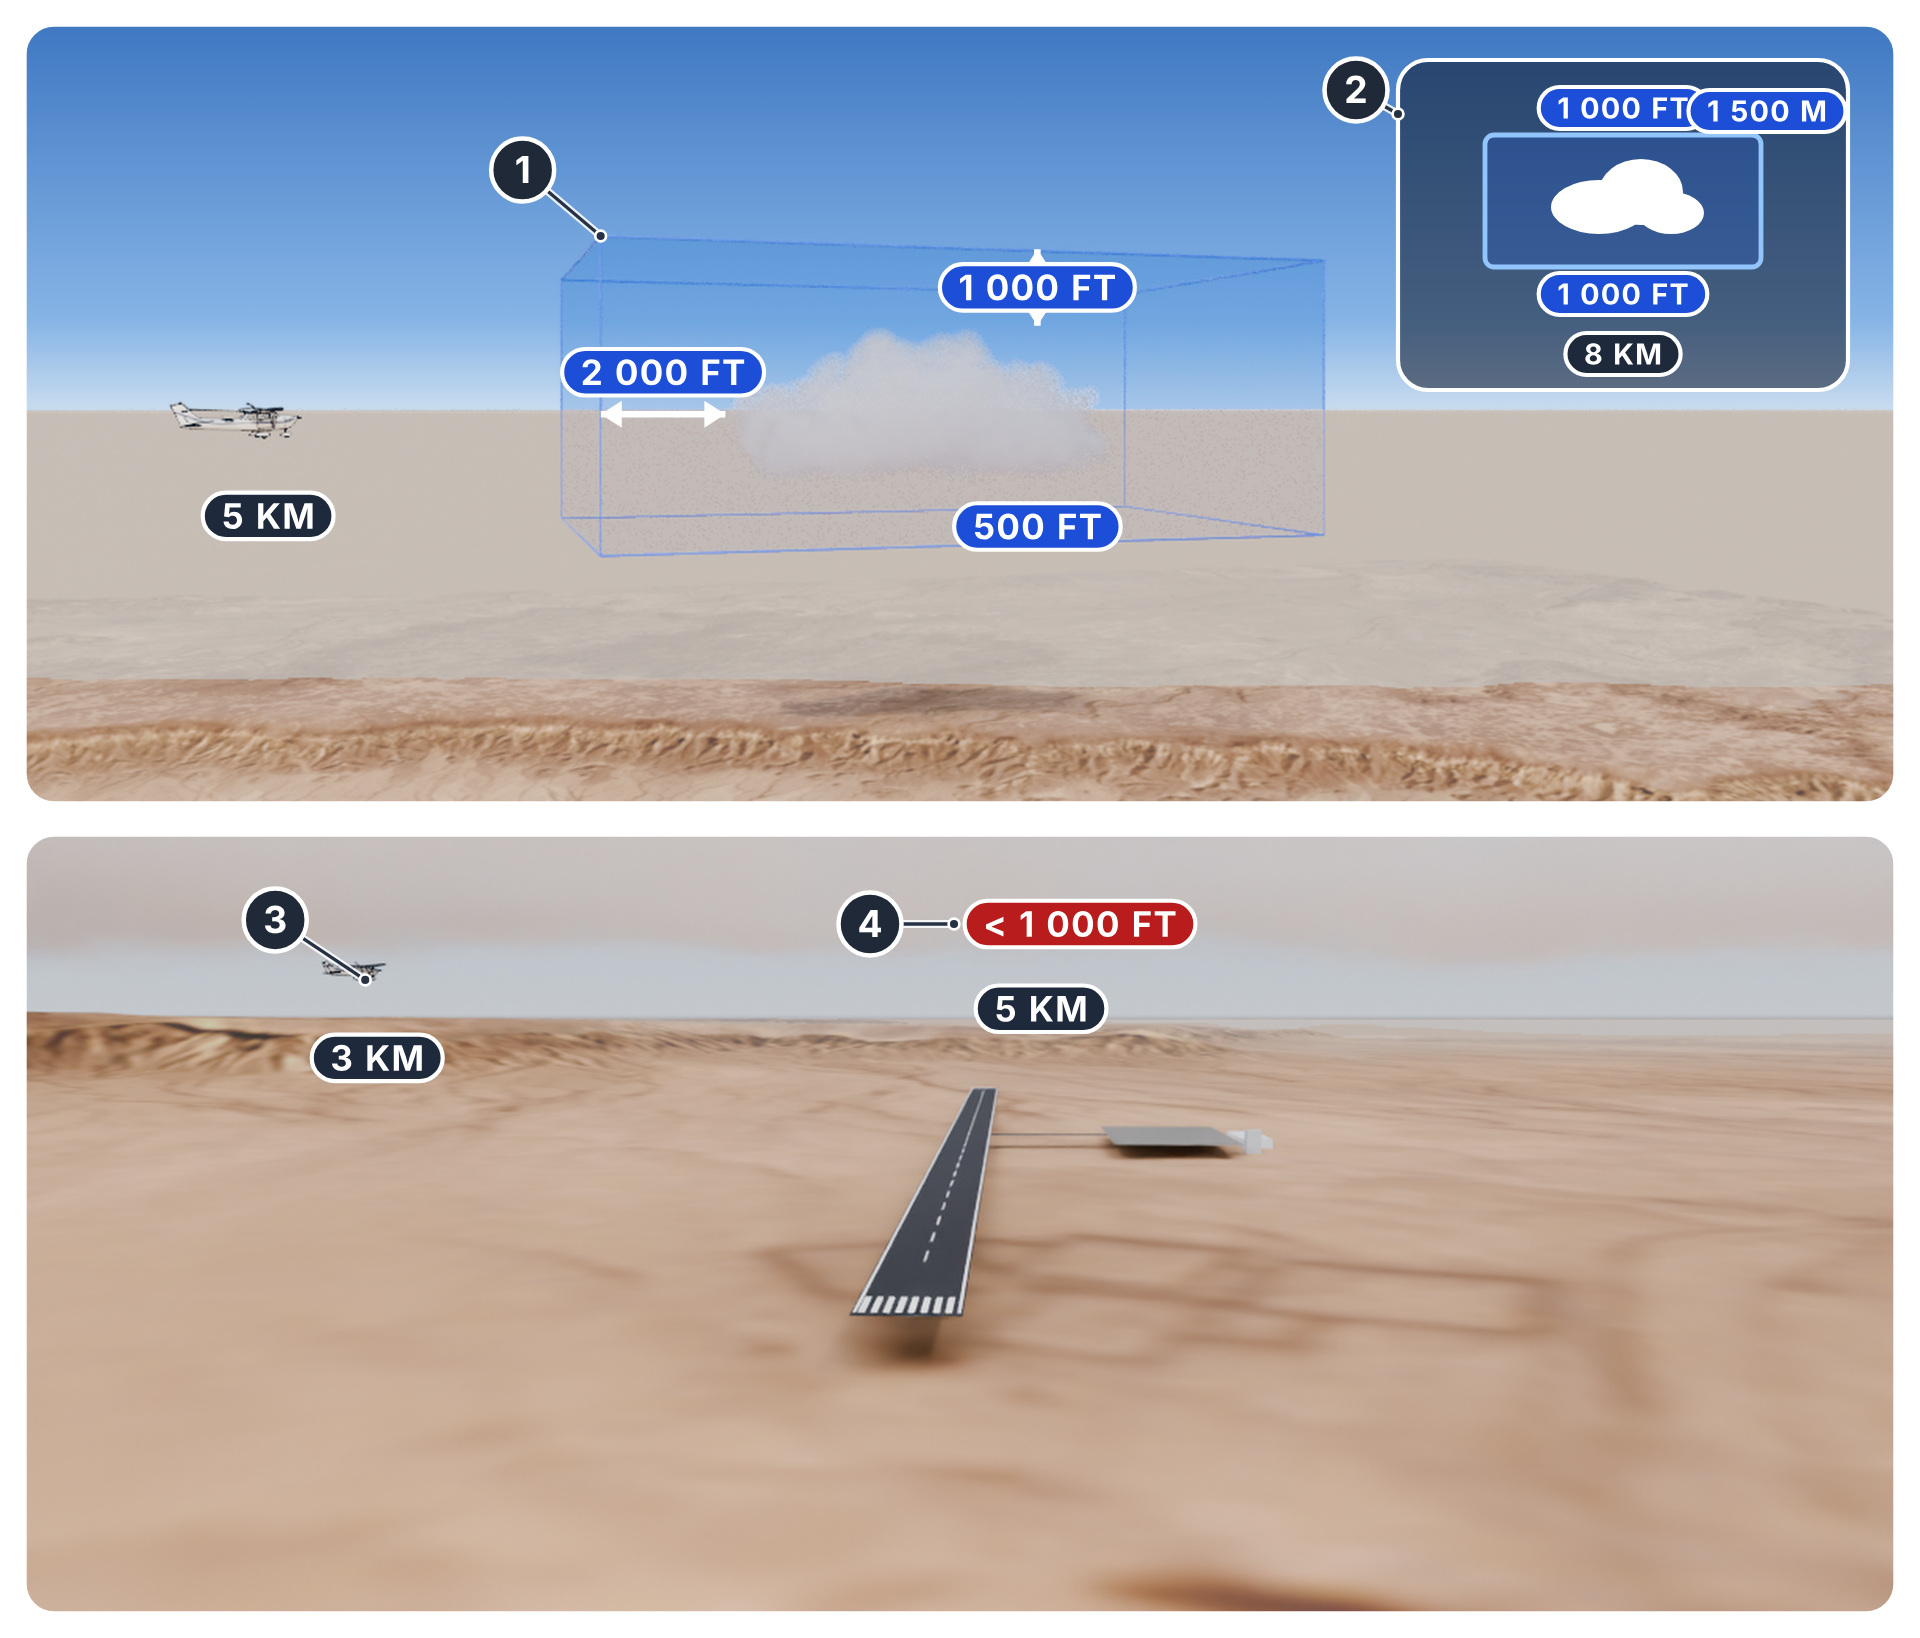
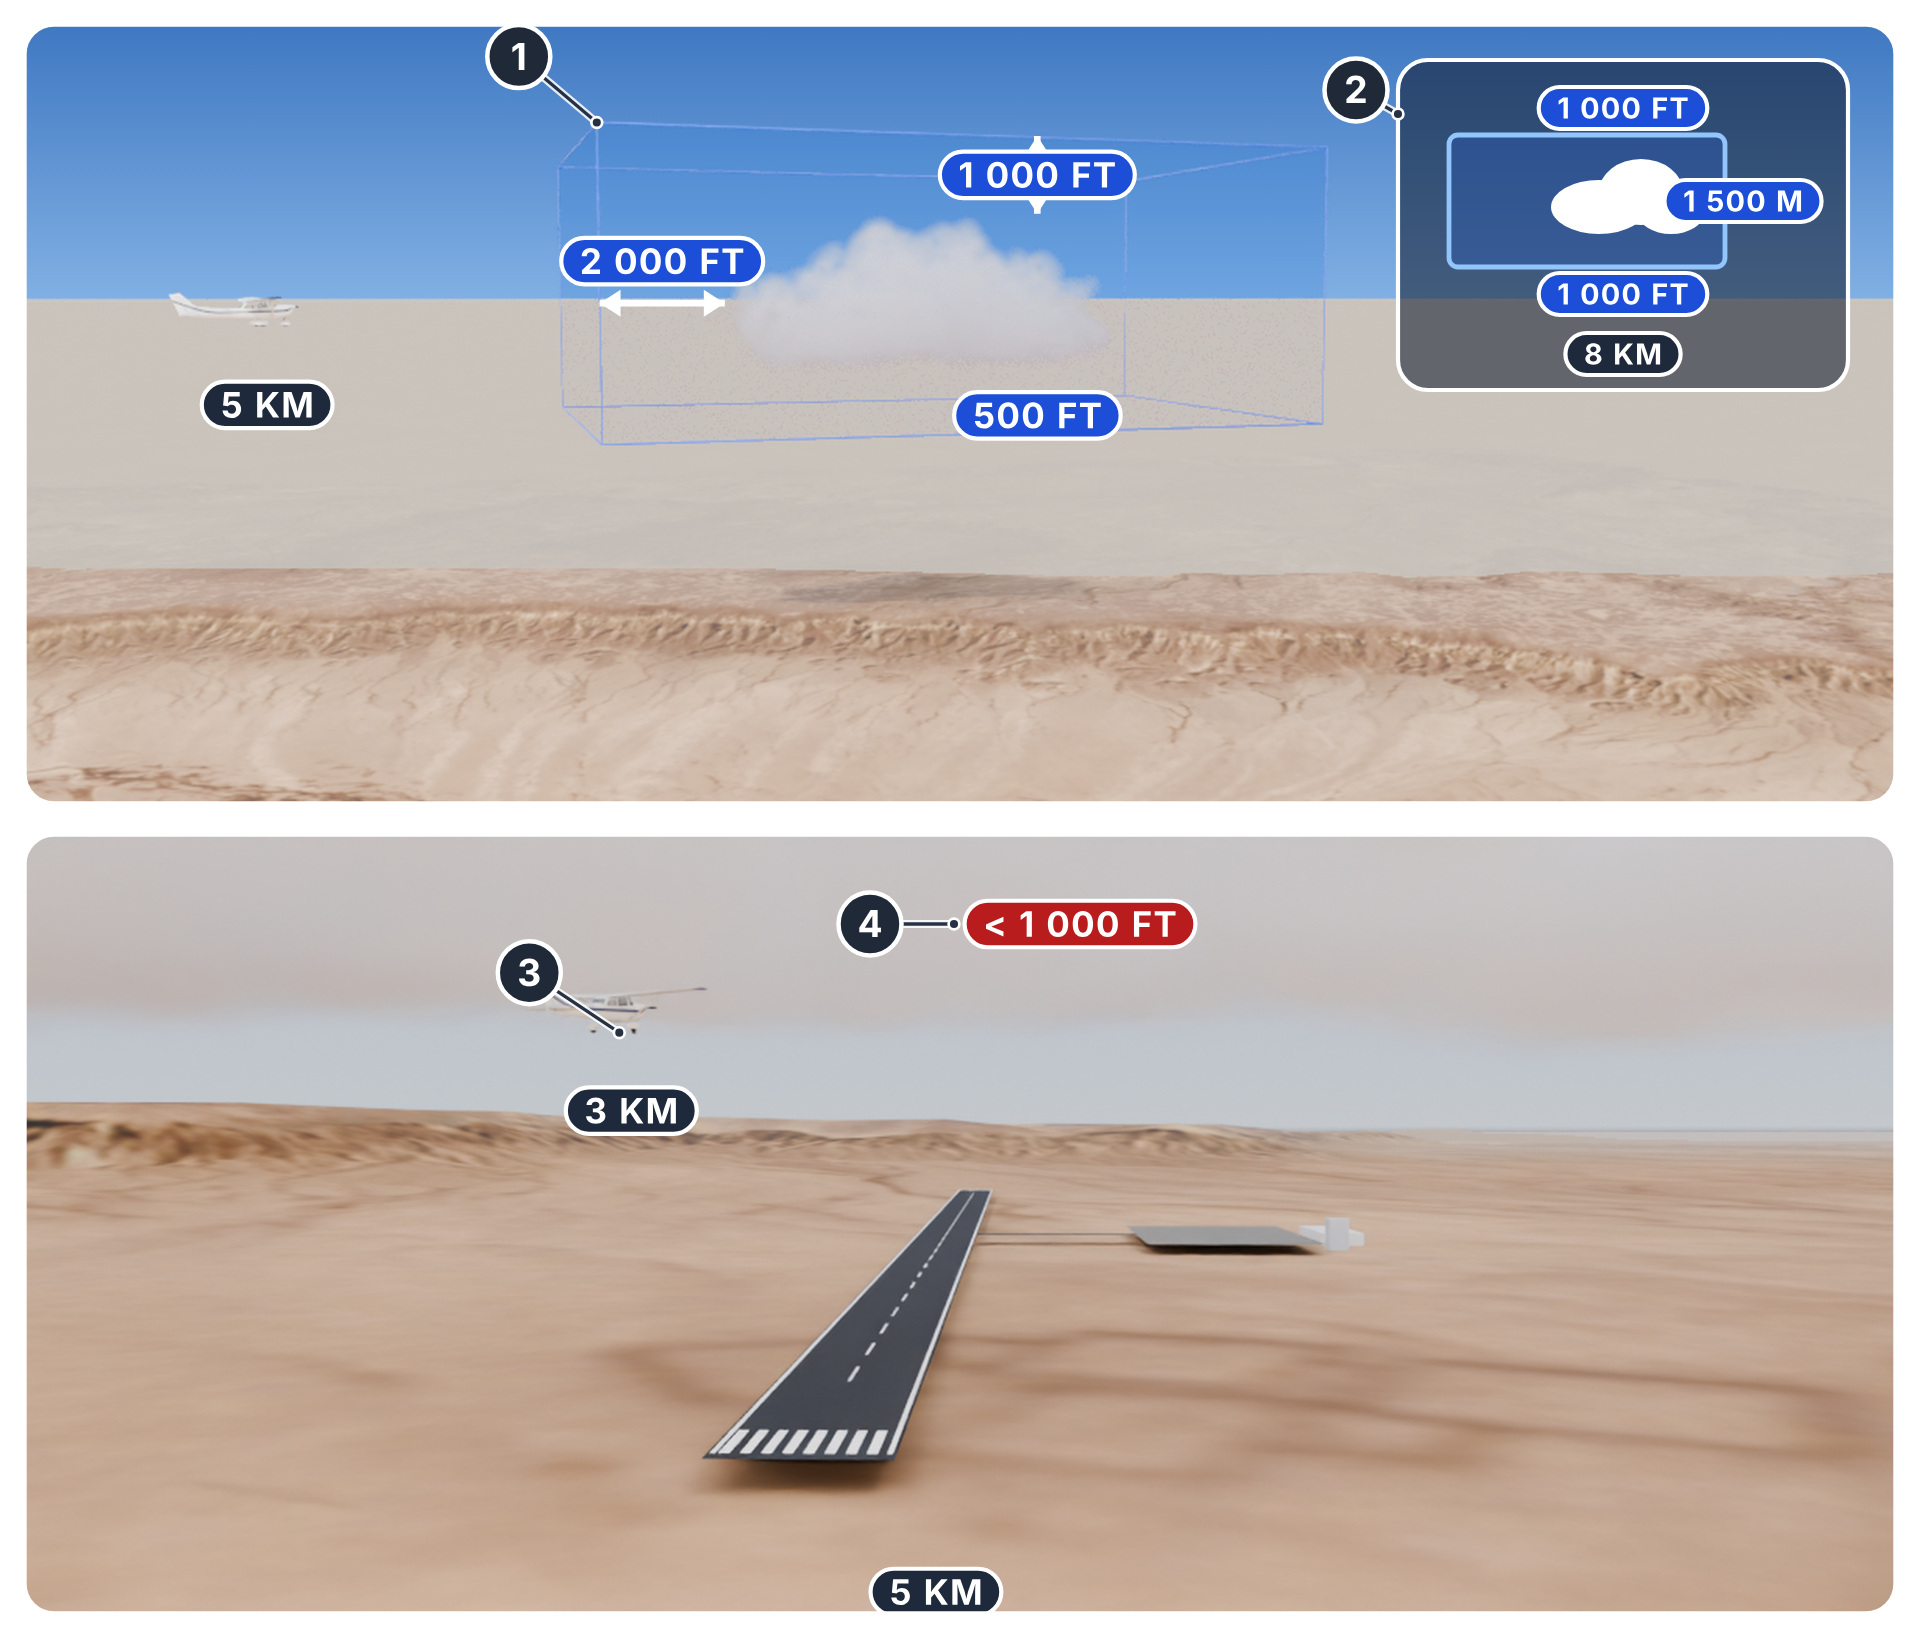
Figure 2-4 in 3D: ground levelled under the aerodrome, fine grain on low ground, lighter haze, no outlines
render_oeth.py: a plan's 'flatten' levels the terrain under its pavements at their
median height and eases it back beyond, so the runway neither floats nor sinks;
a ground image's 'detail' adds grain for low views. The two scenes of 2-4 drop
the Freestyle outlines (over half an hour a frame over the terrain): the flash
keeps the aeroplane clear. The ceiling view is closer, the aeroplane larger; the
cloud view looks lower, under a lighter sand-coloured haze.

Claude-Session: https://claude.ai/code/session_01GaKzbGvzg6oJZTLUkbk9TR

diff --git a/09_book_figures/blender/render_oeth.py b/09_book_figures/blender/render_oeth.py
@@ -278,7 +278,36 @@ def ground_material(gi):
     nt.links.new(tex.outputs["Alpha"], mix.inputs["Factor"])
     nt.links.new(sand.outputs[0], mix.inputs[6])
     nt.links.new(tex.outputs["Color"], mix.inputs[7])
-    nt.links.new(mix.outputs[2], bsdf.inputs["Base Color"])
+    col = mix.outputs[2]
+    det = gi.get("detail")
+    if det:                                                # fine grain for low views, where 10 m pixels are a blur: noise in the colour and a little bump
+        nz = nt.nodes.new("ShaderNodeTexNoise")
+        nz.inputs["Scale"].default_value = det.get("scale", 0.08)
+        nz.inputs["Detail"].default_value = 12.0
+        nz.inputs["Roughness"].default_value = 0.65
+        nt.links.new(tc.outputs["Object"], nz.inputs["Vector"])
+        rng = nt.nodes.new("ShaderNodeMapRange")
+        rng.inputs["To Min"].default_value, rng.inputs["To Max"].default_value = 1.0 - det.get("strength", 0.25), 1.0 + det.get("strength", 0.25) * 0.6
+        nt.links.new(nz.outputs["Fac"], rng.inputs["Value"])
+        mul = nt.nodes.new("ShaderNodeMix")
+        mul.data_type = "RGBA"
+        mul.blend_type = "MULTIPLY"
+        mul.inputs["Factor"].default_value = 1.0
+        nt.links.new(col, mul.inputs[6])
+        gray = nt.nodes.new("ShaderNodeCombineColor")
+        for k in ("Red", "Green", "Blue"):
+            nt.links.new(rng.outputs["Result"], gray.inputs[k])
+        nt.links.new(gray.outputs[0], mul.inputs[7])
+        col = mul.outputs[2]
+        fine = nt.nodes.new("ShaderNodeTexNoise")
+        fine.inputs["Scale"].default_value = det.get("scale", 0.08) * 12.0
+        fine.inputs["Detail"].default_value = 6.0
+        nt.links.new(tc.outputs["Object"], fine.inputs["Vector"])
+        bump = nt.nodes.new("ShaderNodeBump")
+        bump.inputs["Strength"].default_value = det.get("bump", 0.35)
+        nt.links.new(fine.outputs["Fac"], bump.inputs["Height"])
+        nt.links.new(bump.outputs["Normal"], bsdf.inputs["Normal"])
+    nt.links.new(col, bsdf.inputs["Base Color"])
     return m
 
 
@@ -565,6 +594,62 @@ def scene_clouds(items):
             print("clearance", ci, [round(v) for v in (x0, x1, y0, y1, min(zs), max(zs))])
 
 
+def flatten_ground(plan):
+    import numpy as np
+    rings = [p["ring"] for p in plan.get("pavements", [])]
+    xs = [x for r in rings for x, _ in r]
+    ys = [y for r in rings for _, y in r]
+    step = plan.get("grade_step", 40.0)
+    hs = [ground_z(min(xs) + i * step, min(ys) + j * step) for i in range(int((max(xs) - min(xs)) / step) + 1) for j in range(int((max(ys) - min(ys)) / step) + 1)]
+    gz = float(np.median(hs))
+    inner, outer = plan["flatten"].get("inner", 60.0), plan["flatten"].get("outer", 450.0)
+    x0, x1, y0, y1 = min(xs) - outer, max(xs) + outer, min(ys) - outer, max(ys) + outer
+
+    def dist(px, py):                                      # distance from the points to the nearest pavement (0 inside one); rings are convex quadrilaterals or polygons
+        d = np.full(px.shape, np.inf)
+        for r in rings:
+            n = len(r)
+            inside = np.ones(px.shape, bool)
+            sign = None
+            dr = np.full(px.shape, np.inf)
+            for k in range(n):
+                ax, ay = r[k]
+                bx, by = r[(k + 1) % n]
+                ex, ey = bx - ax, by - ay
+                cr = ex * (py - ay) - ey * (px - ax)
+                sign = np.sign(cr) if sign is None else sign
+                inside &= np.sign(cr) == sign
+                t = np.clip(((px - ax) * ex + (py - ay) * ey) / (ex * ex + ey * ey), 0.0, 1.0)
+                dr = np.minimum(dr, np.hypot(px - (ax + t * ex), py - (ay + t * ey)))
+            d = np.minimum(d, np.where(inside, 0.0, dr))
+        return d
+
+    n_moved = 0
+    for ob in bpy.data.objects:
+        if ob.type != "MESH" or not ob.name.startswith("Terrain"):
+            continue
+        me = ob.data
+        co = np.empty(len(me.vertices) * 3)
+        me.vertices.foreach_get("co", co)
+        co = co.reshape(-1, 3)
+        mw = np.array(ob.matrix_world)
+        w = co @ mw[:3, :3].T + mw[:3, 3]
+        sel = (w[:, 0] > x0) & (w[:, 0] < x1) & (w[:, 1] > y0) & (w[:, 1] < y1)
+        if not sel.any():
+            continue
+        d = dist(w[sel, 0], w[sel, 1])
+        t = np.clip((d - inner) / (outer - inner), 0.0, 1.0)
+        t = t * t * (3 - 2 * t)
+        w[sel, 2] = gz * (1 - t) + w[sel, 2] * t
+        n_moved += int((t < 1).sum())
+        loc = (w - mw[:3, 3]) @ np.linalg.inv(mw[:3, :3]).T
+        me.vertices.foreach_set("co", loc.ravel())
+        me.update()
+    bpy.context.view_layer.update()
+    print(f"render_oeth: ground levelled at {gz:.1f} m under the plan ({n_moved} vertices moved)")
+    return gz
+
+
 def lay_plan(plan):
     twy = bpy.data.materials["taxi"]
     apron = bpy.data.materials["apron"]
@@ -573,7 +658,9 @@ def lay_plan(plan):
     roof = flat_material("roof", "#F4F1EA")
     rwy = bpy.data.materials["asphalt"]
     gz = None
-    if plan.get("grade"):                                  # a graded aerodrome: its pavements and paint level, at the highest ground under them
+    if plan.get("flatten"):                                # a graded aerodrome: the ground itself levelled under its pavements (at their median height), eased back to
+        gz = flatten_ground(plan)                          # the natural ground beyond them, so that nothing floats and nothing is buried
+    elif plan.get("grade"):                                  # a graded aerodrome: its pavements and paint level, at the highest ground under them
         xs = [x for p in plan.get("pavements", []) for x, _ in p["ring"]]
         ys = [y for p in plan.get("pavements", []) for _, y in p["ring"]]
         step = plan.get("grade_step", 40.0)

diff --git a/09_book_figures/handbook/figs/oeth3d.py b/09_book_figures/handbook/figs/oeth3d.py
@@ -792,6 +792,8 @@ def _day_3d(rid, camera, size, extra, ac=None, ac_scale=10.0, ac_heading=90.0, f
     anchors = extra.pop("anchors", {})
     r.update(extra)
     r["anchors"].update(anchors)
+    if r.get("ink") is None:                               # (no outlines: Freestyle over the terrain costs more than half an hour a frame; the flash keeps the aeroplane clear)
+        r.pop("ink", None)
     return r
 
 
@@ -801,8 +803,9 @@ def vfr_2_04_cloud():
     (enlarged 10 times) flying past outside the box."""
     cx, cy, base = 9000.0, 1500.0, 1500.0
     ac = (cx - 2700.0, cy - 3600.0, base + 380.0)
-    return _day_3d("vfr-2-04-cloud", {"at": [cx - 2300.0, cy - 7600.0, base + 450.0], "look": [cx + 200.0, cy, base + 420.0], "lens": 30}, [2400, 1000],
-                   {"transparent": True, "haze": {"start": 6000.0, "depth": 16000.0, "colour": "#D8E5F1", "strength": 0.9},
+    return _day_3d("vfr-2-04-cloud", {"at": [cx - 2300.0, cy - 7600.0, base + 450.0], "look": [cx + 200.0, cy, base - 150.0], "lens": 30}, [2400, 1000],
+                   {"transparent": True, "haze": {"start": 6000.0, "depth": 30000.0, "colour": "#DDD5C8", "strength": 0.75},
+                    "ground_image": dict(ground_texture(), detail={"scale": 0.0012, "strength": 0.35, "bump": 0.0}), "exposure": 0.2, "ink": None,
                     "sun": {"elevation": 50, "azimuth": 200, "energy": 3.6, "sky": 0.9},
                     "clouds": [{"kind": "cumulus", "seed": 3, "width": 9.0, "height": 4.0, "floor": True, "voxel": 0.0065, "at": [cx, cy, base], "scale": 230.0, "density": 600.0,
                                 "clearance": {"side": 610.0, "above": 305.0, "below": 152.0, "colour": "#2563EB", "alpha": 0.10, "edge": 5.0}}],
@@ -829,18 +832,19 @@ def vfr_2_04_ceiling():
             "marks": [{"ring": rect(s, s + 30.0, -0.5, 0.5), "colour": "#FFFFFF", "lift": 0.55} for s in [-L / 2 + 120.0 + 60.0 * k for k in range(26)]]
                      + [{"ring": rect(e - 30.0, e, -19.5 + 5.0 * k, -17.0 + 5.0 * k), "colour": "#FFFFFF", "lift": 0.55} for e in (-L / 2 + 36.0, L / 2 - 6.0) for k in range(8)]
                      + [{"ring": rect(-L / 2 + 6.0, L / 2 - 6.0, side - 0.6, side + 0.6), "colour": "#FFFFFF", "lift": 0.55} for side in (-Wd / 2 + 1.5, Wd / 2 - 1.5)],
-            "grade": True,
+            "grade": True, "flatten": {"inner": 70.0, "outer": 500.0},
             "blocks": [{"ring": rect(-110.0, -96.0, 270.0, 284.0), "height": 22.0, "colour": "#CBD5E1"}, {"ring": rect(-60.0, 40.0, 275.0, 305.0), "height": 9.0, "colour": "#E2E8F0"}]}
-    back = L / 2 + 520.0                                  # the camera on the extended centreline, short of the threshold, under the ceiling
-    cam = [round(rx0 - ux * back + nx * 40.0, 1), round(ry0 - uy * back + ny * 40.0, 1), 170.0]
-    ac = (round(rx0 - ux * (back - 420.0) - nx * 160.0, 1), round(ry0 - uy * (back - 420.0) - ny * 160.0, 1), 182.0)
-    return _day_3d("vfr-2-04-ceiling", {"at": cam, "look": [rx0 - ux * 300.0, ry0 - uy * 300.0, 0.0], "lens": 26}, [2400, 1000],
-                   {"plan": plan, "sun": {"elevation": 55, "azimuth": 140, "energy": 1.6, "sky": 0.8}, "exposure": 0.15,
+    back = L / 2 + 380.0                                  # the camera on the extended centreline, short of the threshold, under the ceiling
+    cam = [round(rx0 - ux * back + nx * 50.0, 1), round(ry0 - uy * back + ny * 50.0, 1), 125.0]
+    ac = (round(rx0 - ux * (back - 420.0) - nx * 50.0, 1), round(ry0 - uy * (back - 420.0) - ny * 50.0, 1), 150.0)
+    return _day_3d("vfr-2-04-ceiling", {"at": cam, "look": [rx0 + ux * 250.0, ry0 + uy * 250.0, 40.0], "lens": 32}, [2400, 1000],
+                   {"plan": plan, "sun": {"elevation": 55, "azimuth": 140, "energy": 1.6, "sky": 0.8}, "exposure": 0.15, "ink": None,
+                    "ground_image": dict(ground_texture(), detail={"scale": 0.06, "strength": 0.22, "bump": 0.3}),
                     "haze": {"start": 2500.0, "depth": 14000.0, "colour": "#D6D9DE", "strength": 0.6},
                     "clouds": [{"kind": "stratus", "seed": 6, "width": 18.0, "height": 0.6, "depth": 6.0, "density": 40.0, "erode": [0.30, 0.6], "ragged": 0.6, "gaps": [0.35, 0.6],
                                 "gap_floor": 0.40, "taper": 8.0, "end_fade": 0.25, "absorb": 0.0, "absorb_white": 1.0, "at": [rx0 - 200.0, ry0 + 1500.0, 230.0], "scale": 900.0, "heading": 70.0}],
                     "anchors": {"deck": [rx0 + ux * 600.0, ry0 + uy * 600.0, 235.0], "rwy": [rx0, ry0], "thr": [round(rx0 - ux * L / 2, 1), round(ry0 - uy * L / 2, 1)], "tower": [round(c, 1) for c in rect(-110.0, -96.0, 270.0, 284.0)[0]]}},
-                   ac=ac, ac_scale=2.2, ac_heading=hd + 35.0)
+                   ac=ac, ac_scale=5.0, ac_heading=hd + 25.0)
 
 
 def backdrop_side():

diff --git a/09_book_figures/handbook/figs/f_02_04_vfr_minimums.py b/09_book_figures/handbook/figs/f_02_04_vfr_minimums.py
@@ -94,8 +94,8 @@ def top_over(at, ph):
 
 
 def bot_over(at, ph):
-    (ax, ay), (rx, ry), (dx, dy) = at("ac"), at("thr"), at("deck")
-    return (pill(ax + 4, ay + 26, "3 KM", INK) + pill(PX + PW / 2 + 40, PY2 + 30, "< 1 000 FT", RED) + pill(rx + 46, ry + 40, "5 KM", INK))
+    (ax, ay), (rx, ry), (dx, dy) = at("ac"), at("rwy"), at("deck")
+    return (pill(ax + 4, ay + 26, "3 KM", INK) + pill(PX + PW / 2 + 40, PY2 + 30, "< 1 000 FT", RED) + pill(rx + 70, ry + 34, "5 KM", INK))
 
 
 def layers():
